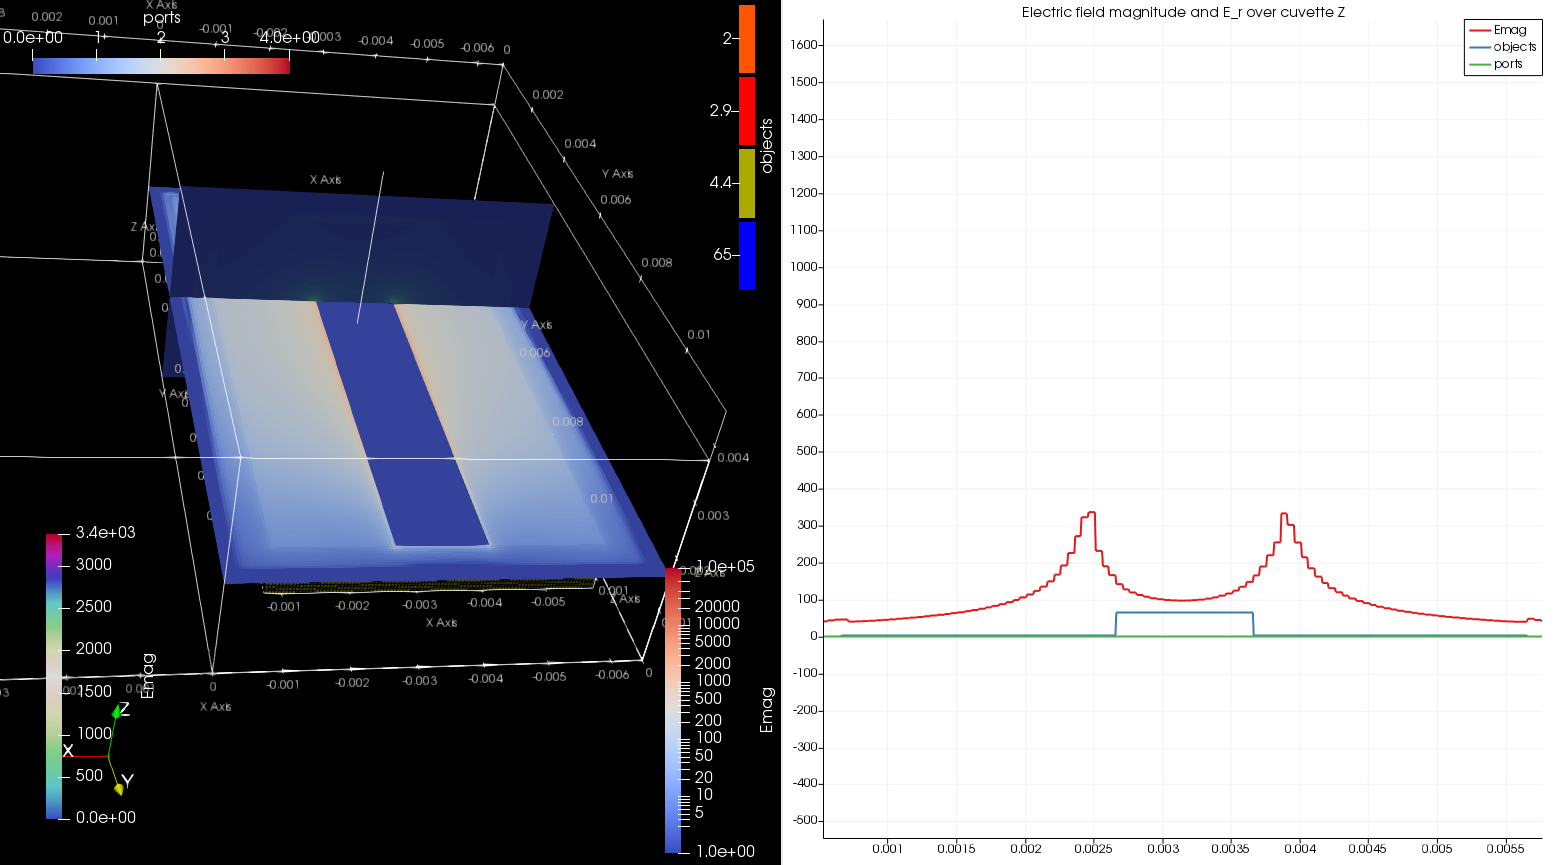
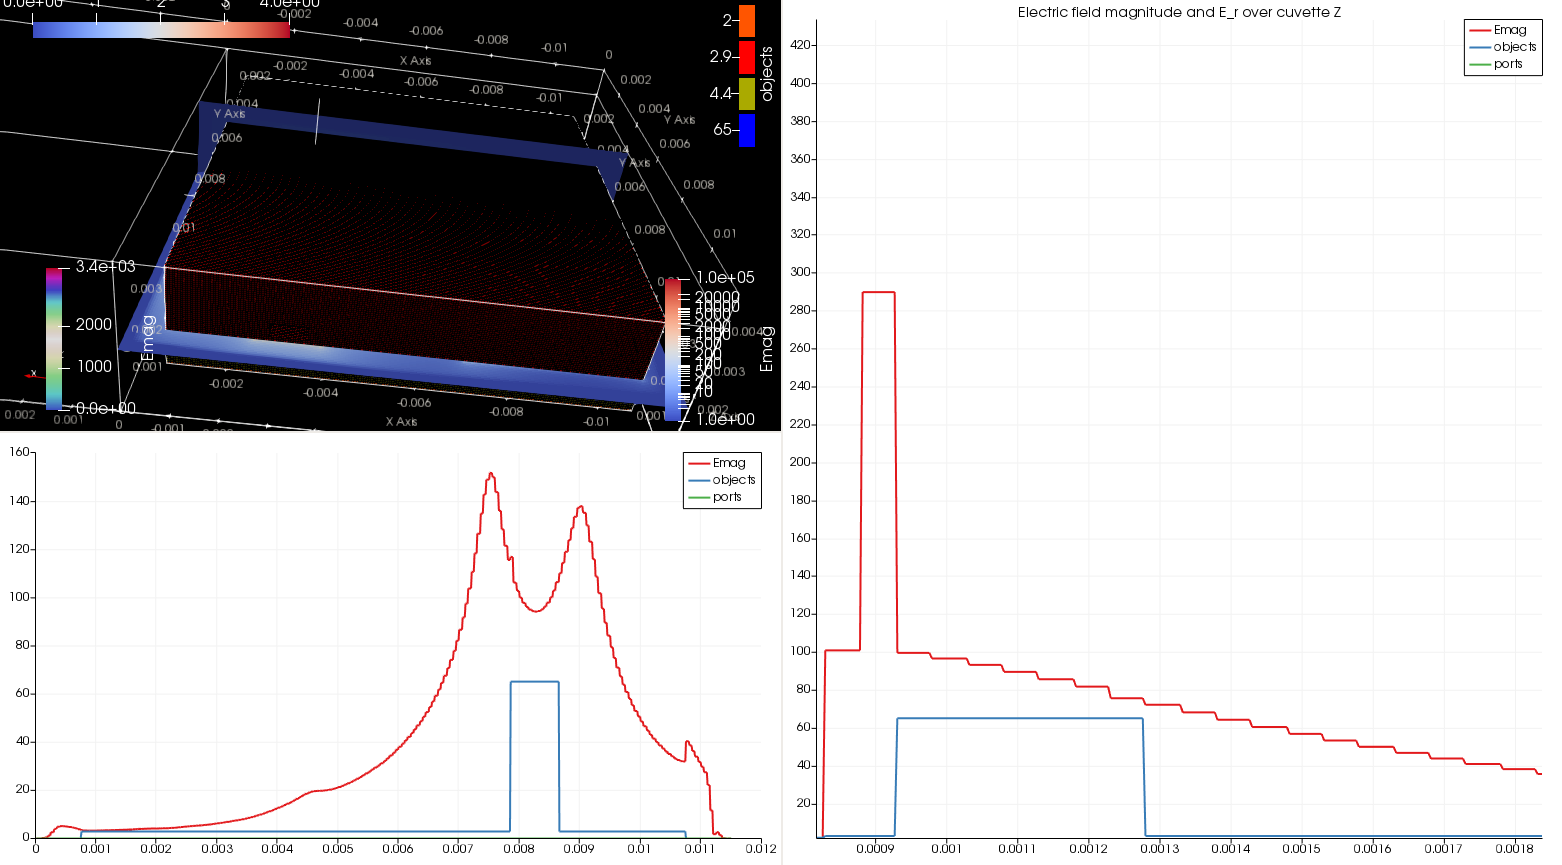
Improved FDTD sim

diff --git a/mechanical/microfluidic/generate_slide.py b/mechanical/microfluidic/generate_slide.py
@@ -2,7 +2,7 @@ from solid import *
 from solid.utils import *
 # pip install git+https://github.com/SolidCode/SolidPython.git
 import os
-
+from math import log2
 #when-changed generate_slide.py -v -c "python %f"
 
 OPENSCAD_BINARY = "~/Programs/OpenSCAD-2019.05-x86_64.AppImage"
@@ -11,7 +11,7 @@ OPENSCAD_BINARY = "~/Programs/OpenSCAD-2019.05-x86_64.AppImage"
 #Mylar 0.10mm -
 #9495MP 0.14mm -
 #Mylar 0.10mm -
-#9495MP 0.14mm -
+#9495MP 0.14mm - remove from windows, otherwise they'll be all sticky
 #Polycarbonate 3.175 mm
 
 thicknesses = [0.10, 0.14]
@@ -25,9 +25,9 @@ CENTERLINE = FRAME_WIDTH / 2.0
 WINDOW_WIDTH = 10.0
 
 O_RING_OD = 4.15 # McMaster-Carr 003 size Viton O-ring
-O_RING_PORT_SIZE = 1.5
+O_RING_PORT_SIZE = 1.8
 SYRINGE_OD = 1.8
-O_RING_THICKNESS = 1.5
+O_RING_THICKNESS = 1.8
 
 TEXT_SIZE = 3
 
@@ -38,8 +38,8 @@ IR_ENCODER_SLIT_LENGTH = 0.1
 
 CHANNEL_WIDTH = 0.2
 
-NUM_CUVETTES = 15
-CUVETTE_SPACING = 6.0 # between
+NUM_CUVETTES = 2**3
+CUVETTE_SPACING = 10.0 # center-to-center
 CUVETTE_LENGTH = 0.8
 CUVETTE_WIDTH = 10
 CUVETTE_THICKNESS = 0.14 + 0.1 + 0.14
@@ -49,13 +49,16 @@ LEADER_HOLE_DIA = 2.0
 total_cuvette_volume = NUM_CUVETTES * CUVETTE_LENGTH * CUVETTE_WIDTH * CUVETTE_THICKNESS
 print(total_cuvette_volume * 0.001)
 
-culture_cuvette_y = 0
-CULTURE_CUVETTE_X = 0
+CULTURE_CUVETTE_X = CUVETTE_WIDTH
+culture_cuvette_y = total_cuvette_volume / CUVETTE_THICKNESS / CULTURE_CUVETTE_X
 
-FRAME_LENGTH = ((CUVETTE_LENGTH/2.0) + CUVETTE_SPACING) * (NUM_CUVETTES) + 2*FRAME_END_MARGIN
+
+FRAME_LENGTH = ((CUVETTE_LENGTH/2.0) + CUVETTE_SPACING) * (NUM_CUVETTES) + culture_cuvette_y + 2*FRAME_END_MARGIN
 
 print(FRAME_WIDTH, FRAME_LENGTH)
+print(NUM_CUVETTES*CUVETTE_SPACING + culture_cuvette_y)
 
+window_length = CUVETTE_SPACING / 1.5
 
 
 layer_0 = square([FRAME_WIDTH, FRAME_LENGTH],center=False)
@@ -78,8 +81,30 @@ frame = square([FRAME_WIDTH, FRAME_LENGTH],center=False)
 frame -= translate([CENTERLINE,FRAME_LENGTH - (LEADER_HOLE_DIA*1.5)])(circle(d=LEADER_HOLE_DIA))
 frame = linear_extrude(height=FRAME_THICKNESS, center=False)(frame)
 
+def tree(n, spacing, segment_length):
+    #Regnier bifurcating distributor
+    #binary tree
+
+    num_hierarchies = int(log2(n))
+    tree = translate([-segment_length, n*spacing])(\
+        square([segment_length, CHANNEL_WIDTH],center=False))
+    for i in range(0, num_hierarchies):
+
+        for j in range(0, int(2**i)):
+            print(i)
+            segment_start = (j * ((n*spacing)/(int(2**i)/2))) + (spacing*n / int(2**i) / 2) - spacing
+            tree += translate([i*segment_length, segment_start])(\
+                    square([CHANNEL_WIDTH, spacing * 2**(num_hierarchies-i)],center=False))
+
+            channel = square([segment_length, CHANNEL_WIDTH], center=False)
+            channel = translate([i*segment_length, segment_start])(channel)
+            channel_2 = square([segment_length, CHANNEL_WIDTH], center=False)
+            channel_2 = translate([i*segment_length, segment_start + spacing * 2**(num_hierarchies-i)])(channel_2)
+            tree += channel + channel_2
+
+    return tree
+
 for i in range(0, NUM_CUVETTES):
-    window_length = CUVETTE_SPACING / 2
     cuvette_y_centerline = i*CUVETTE_SPACING + window_length/2.0 + FRAME_END_MARGIN
 
     ir_encoder_slit = square([IR_ENCODER_SLIT_WIDTH,IR_ENCODER_SLIT_LENGTH],center=False)
@@ -89,25 +114,57 @@ for i in range(0, NUM_CUVETTES):
     cuvette = square([CUVETTE_WIDTH,CUVETTE_LENGTH],center=False)
     cuvette = translate([CENTERLINE-(CUVETTE_WIDTH/2) ,cuvette_y_centerline-(CUVETTE_LENGTH/2)])(cuvette)
 
+    port = translate([CENTERLINE+WINDOW_WIDTH/2 + O_RING_OD*1.5, cuvette_y_centerline])(\
+                circle(d=SYRINGE_OD))
+    frame -= linear_extrude(height=FRAME_THICKNESS, center=False)(port)
+
     cuvette_features = ir_encoder_slit + cuvette
 
-    layer_0 -= cuvette_features
+    # layer_0 -= cuvette_features
     layer_1 -= cuvette_features
     layer_2 -= cuvette_features
+    layer_3 -= ir_encoder_slit
 
-    window = cube([CUVETTE_WIDTH, window_length, FRAME_THICKNESS])
+    window = square([CUVETTE_WIDTH, window_length])
     window = translate([CENTERLINE-WINDOW_WIDTH/2, cuvette_y_centerline-(window_length/2)])(window)
-    frame -= cylinder(1)
-    frame -= window
+    layer_3 -= window
+    frame -= linear_extrude(height=FRAME_THICKNESS, center=False)(window)
 
 
 
+    frame -= translate([CENTERLINE+WINDOW_WIDTH/2 + O_RING_OD*1.5, cuvette_y_centerline])(\
+                cylinder(d=O_RING_OD, h=O_RING_THICKNESS, center=False))
 
-header = '$fa = 0.1;\n$fs = 0.1;'
+
+bacteria_tree = tree(8, CUVETTE_SPACING, 3)
+layer_1 -= translate([CENTERLINE - (13),window_length/2.0 + FRAME_END_MARGIN])(bacteria_tree)
+
+#This should be re-written with
+# matrix multiply mask operations for each layer; window*[false, false, false, true]
+# oop objects
+
+header = '$fa = 0.5;\n$fs = 0.5;'
 scad_render_to_file(layer_0, 'output/layer_0.scad', file_header = header)
+scad_render_to_file(layer_1, 'output/layer_1.scad', file_header = header)
+scad_render_to_file(layer_2, 'output/layer_2.scad', file_header = header)
+scad_render_to_file(layer_3, 'output/layer_3.scad', file_header = header)
+
+
 scad_render_to_file(frame, 'output/frame.scad', file_header = header)
 os.system(f"{OPENSCAD_BINARY} output/layer_0.scad -o output/layer_0.svg")
+os.system(f"{OPENSCAD_BINARY} output/layer_1.scad -o output/layer_1.svg")
+os.system(f"{OPENSCAD_BINARY} output/layer_2.scad -o output/layer_2.svg")
+os.system(f"{OPENSCAD_BINARY} output/layer_3.scad -o output/layer_3.svg")
 os.system(f"{OPENSCAD_BINARY} output/frame.scad -o output/frame.stl")
+#
+# os.system("xsltproc --stringparam stroke-width 0px svglinewidth.xsl output/layer_0.svg > output/layer_0.svg")
+# os.system("xsltproc --stringparam stroke-width 0px svglinewidth.xsl output/layer_1.svg > output/layer_1.svg")
+
+os.system('find output/ -type f -exec sed -i \'s/stroke-width="0.5"/stroke-width="0"/g\' {} \;')
+os.system('find output/ -type f -exec sed -i \'s/fill="lightgray"/fill="black"/g\' {} \;')
+
+
+
 
 #meshlab output/frame.stl
 #xdg-open layer_0.svg

diff --git a/documents/supplemental.tex b/documents/supplemental.tex
@@ -72,6 +72,33 @@ Things heating up at the Microwave Safety fandom.
 \clearpage
 \rule{\linewidth}{0.2pt}
 
+We do not intend to denigrate the work or otherwise cast aspersions on the authors of the mentioned papers; their experiment extremely well-designed and performed. 
+
+However, since the result is unexpected, we would like to mention a few means by which the effect described could be achieved without strong non-thermal coupling.
+
+\begin{quote}
+
+ To confirm that our observation is not due to the microwave thermal heating effect, we had monitored the sample temperature change during the microwave illumination experiments with a radiated power density of 486W/m2 at a frequency of 6GHz by using an infrared thermal imaging camera with a temperature accuracy of 0.05°C (CHCT, P384-20). The temperature rise after 15 minutes radiation was 7°C, from 27.5°C up to 34.5°C. We thus exclude the possible contribution of microwave thermal heating effect to inactivation H3N2 viruses under our experimental condition.
+
+\end{quote}
+
+The frequency-dependent inactivation result in Figure 4b is difficult to explain without invoking non-thermal mechanisms. Only one  It is not mentioned how this applied power level was measured. 
+
+The amplifier in question is not available on the supplier's website \cite{Microwaved} has gain flatness of 3.5 dB over 6-12 GHz - just over 1 octave. The amplifier used in [Hung] is not mentioned; because the frequency range mentioned (6 GHz to 18 GHz) is the same as that of the amplifier, we assume the same amplifier was used. 
+
+If the amplifier happened to be matched better at 8 GHz than 12 GHz.
+
+\cite{EM6969}
+
+QPJ-06183640
+
+Similarly, the gain of the EM-6969 antenna varies from 17 dBi to 21 dBi over the frequency range in Figure 3.
+
+However, that the spectra of all these effects would combine to produce a peak at precisely the resonant frequency determined by the entirely different microwave cuvette is highly implausible; and so Figure 4b really does seem to be good evidence of such an effect.
+
+\clearpage
+\rule{\linewidth}{0.2pt}
+
 There seems to be a discrepancy between [Yang 2015] and our reading of [C95.1-2005].
 
 They use a threshold in open public space of $100(f/3)^{1/5} \text{ W/m}^2$. The 115 W @ 6 GHz they provide correctly corresponds to this equation with a coefficient of 100.
@@ -435,6 +462,8 @@ We had anticipated having to perform a large number of tests for optimization of
 We originally planned on using techniques from the rapidly accelerating field of centrifugal microfluidics, using a broadband patch antenna smaller than the cuvette, and measuring transmission absorption.
 
 Centrifugal microfluidics has the advantage of getting a pump for free; mixing can be effected by generating vortexes by accelerating and decelerating quickly; and because everything is circular, it is easier to design equidistant.
+
+The most important feature is the consistent "down" vector; because capillary forces 
 
 However, aligning seemed liable to produce artifacts; runout in the spindle;
 

diff --git a/electronics/simple_fdtd/run/microstrip.py b/electronics/simple_fdtd/run/microstrip.py
@@ -53,12 +53,14 @@ ribbon_dielectric_constant = 2.9
 ribbon_thickness = 1.6e-3
 ribbon_length = 10e-3
 
+cover_tape_thickness = 0.1e-3
+
 fluid_dielectric_constant = 65
-fluid_thickness = 1e-3
-fluid_width = 1e-3
+fluid_thickness = (0.14+0.1+0.14) * 1e-3
+fluid_width = 0.8e-3
 
 pcb = fd.PCB(0.00005, xy_margin=15, z_margin=15)
-fd.initialize_grid(pcb,int((5e-3)/pcb.cell_size),int((microstrip_length)/pcb.cell_size),
+fd.initialize_grid(pcb,int((10e-3)/pcb.cell_size),int((microstrip_length)/pcb.cell_size),
                                 int(0.0025/pcb.cell_size), courant_number = 0.4)
 
 fd.create_planes(pcb, 0.032e-3, 6e7)
@@ -75,22 +77,36 @@ centerline = int((5e-3 / pcb.cell_size ) / 2.0) + pcb.xy_margin
 pcb.copper_mask[:, :, z_slice] = 0
 pcb.copper_mask[:,:,pcb.ground_plane_z_top:pcb.component_plane_z] = 0 # vias
 
+microstrip_gap = 3e-3 # distance to ground plane
 #microstrip line
 m_w_N = int((microstrip_width/2)/pcb.cell_size)
 pcb.copper_mask[centerline-m_w_N:centerline+m_w_N, \
                     pcb.xy_margin:int(pcb.xy_margin+(int(microstrip_length/pcb.cell_size))), z_slice] = 1
+# pcb.copper_mask[pcb.xy_margin:centerline-m_w_N-int(microstrip_gap/pcb.cell_size), \
+#                     pcb.xy_margin:int(pcb.xy_margin+(int(microstrip_length/pcb.cell_size))), z_slice] = 1
+pcb.copper_mask[centerline+m_w_N+int(microstrip_gap/pcb.cell_size):-pcb.xy_margin, \
+                    pcb.xy_margin:int(pcb.xy_margin+(int(microstrip_length/pcb.cell_size))), z_slice] = 1
+
+
+#cover tape
+pcb.grid[pcb.xy_margin:-pcb.xy_margin, pcb.xy_margin:-pcb.xy_margin, \
+            (pcb.component_plane_z+1):(pcb.component_plane_z+1+int(cover_tape_thickness/pcb.cell_size))] = fdtd.Object(permittivity=ribbon_dielectric_constant, name="cover_tape")
 
 
 #polycarb ribbon
 pcb.grid[pcb.xy_margin:-pcb.xy_margin, pcb.xy_margin:-pcb.xy_margin, \
-            (pcb.component_plane_z+1):(pcb.component_plane_z+1+int(ribbon_thickness/pcb.cell_size))] = fdtd.Object(permittivity=ribbon_dielectric_constant, name="ribbon")
+        (pcb.component_plane_z+1+int(cover_tape_thickness/pcb.cell_size)):\
+            (pcb.component_plane_z+1+int(ribbon_thickness/pcb.cell_size))] = fdtd.Object(permittivity=ribbon_dielectric_constant, name="ribbon")
+
+
 
 
 #fluid
 conductivity_scaling = 1.0/(pcb.cell_size / epsilon_0) #again, flaport's thesis.
 f_w_N = int((fluid_width/2)/pcb.cell_size)
 pcb.grid[centerline-f_w_N:centerline+f_w_N, pcb.xy_margin:-pcb.xy_margin, \
-            (pcb.component_plane_z+1):(pcb.component_plane_z+1+int(fluid_thickness/pcb.cell_size))] \
+            (pcb.component_plane_z+1+int(cover_tape_thickness/pcb.cell_size)):(pcb.component_plane_z+1+\
+                                    int(cover_tape_thickness/pcb.cell_size))+int(fluid_thickness/pcb.cell_size)] \
                     = fdtd.AbsorbingObject(conductivity=0.010*conductivity_scaling, permittivity=fluid_dielectric_constant, name="fluid")
 
 

diff --git a/firmware/eppenwolf/host/run.py b/firmware/eppenwolf/host/run.py
@@ -1,15 +1,46 @@
 import device_comms
 import sweep
 
+# Phage+Bacteria / Bacteria-only / phage only?
+# expose (parameters) / sham / thermal positives
+
+# For each of the animal and human published studies, four
+# predetermined and specific quality control measures were used to
+# assess the quality of the publication.
+# 1. Whether or not the researchers have used ‘‘blind’’ evaluations to
+# avoid individual ‘‘bias’’, B or nB;
+# 2. Whether or not there was detailed/adequate description of
+# ‘‘dosimetry’’ in the publication for independent replication/
+# confirmation studies, D or nD.
+# 3. Whether or not ‘‘positive controls’’ were included in the
+# experiment(s) to replicate/confirm the observations, P or nP.
+# 4. Whether or not ‘‘sham-exposed controls’’ (more appropriate to
+# compare with the observations made in RF exposure conditions)
+# were included in the experiments, S or nS. However, it was not our
+# intention to ‘‘rank’’ the publications either to exclude or include
+# the reported data in the meta-analysis.
 
 def initialize():
-
-    Name this run
-    Fluidic plate ID
+    # Name this run
+    # Fluidic plate ID
 
 
     print("Fill phage into all selected cuvettes.")
     Simulataneously and separately
+
+
+def bacteria_alone_control():
+    //repeated twice
+
+    # fill_phage()
+
+
+def bacteria_and_phage_control():
+    //repeated twice
+
+
+def bacteria_and_inactivated_phage_positive_control():
+    //
 
 
 
@@ -29,7 +60,7 @@ RF
 
 Expose phage, mix with log bacteria, monitor.
 
-Bare 
+Bare
 
 Sham
 

diff --git a/documents/paper.tex b/documents/paper.tex
@@ -159,6 +159,14 @@ The literature reviews conducted by standards organizations.\\
 
 We are not aware of any past uses of these microwave en-masse. We do not have the 
 
+Moreover, 
+\begin{quote}
+	
+In the absence of publication bias, since the sampling error is random, all studies will be distributed symmetrically around the mean d value.
+
+\end{quote}
+
+
 \end{autem}
 
 
